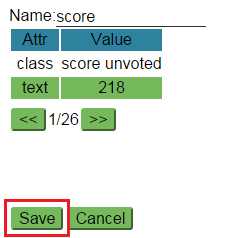
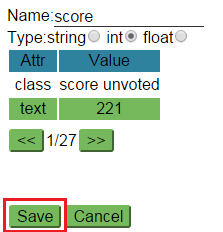
update tutorial for rule.type

diff --git a/docs/source/tutorial.rst b/docs/source/tutorial.rst
@@ -13,38 +13,44 @@ When opening Forager, you will get an empty interface.
 Before You Get Started
 ^^^^^^^^^^^^^^^^^^^^^^
 
-One thing to keep in mind is that the page that you're seeing isn't necessarily the page that `Gatherer <https://github.com/psherman/gatherer>`_ will see. :code:`Gatherer` will be receiving the html of the site as a non-logged in user, as well as having no extensions modifying the page. You should log out and disable any extensions that are running (eg. Reddit Enhancement Suite) if you want to be certain that you're seeing what :code:`Gatherer` will.
+One thing to keep in mind is that the page that you're seeing isn't necessarily the page that `Gatherer <https://github.com/psherman/gatherer>`_ will see. :code:`Gatherer` will be receiving the html of the site as a non-logged in user, as well as having no extensions modifying the page. You should log out and disable any extensions that are running (eg. Reddit Enhancement Suite) if you want to see what :code:`Gatherer` will.
 
 Create Page
 ^^^^^^^^^^^^
 The first step is to create a new page.
 
 1. Click the :code:`Add` button
++++++++++++++++++++++++++++++++
 
 .. image:: img/add-page.png
 
-2. In the prompt enter a legal page name and click ok. A legal page name does not include these characters:
+2. Choose the Page name
++++++++++++++++++++++++
+
+In the prompt enter a legal page name and click ok. A legal page name does not include these characters:
 
     < > : " \ / | ? *
 
-The name of the page for this tutorial will be "submissions"
+The name of the page for this tutorial will be "submissions". Once the name has been entered, click the :code:`OK` button.
 
 .. image:: img/page-name.png
 
-3. You now have a new page, with a base selector on the body element.
+You now have a new page, with a base selector on the body element.
 
 .. image:: img/new-page.png
 
 Selectors
 ^^^^^^^^^^^^
 
-There are two types of selectors:
+Pages are made up of a tree of :code:`selectors`. There are two types of selectors:
 
-1. Single selectors 
+1. Single selectors
++++++++++++++++++++
 
 These target one specific child element of a parent element which matches the selector. An index integer is stored for single selectors to indicate which child to select when multiple elements match the selector.
 
 2. All selectors
+++++++++++++++++
 
 These target all child elements of the parent element that match the selector. A name string is stored for all selectors to indicate the name of the array to store the children's data in.
 
@@ -57,6 +63,7 @@ Note: Sometimes a selector does not have any relevant data associated with it, b
 Because we are getting a list of submissions, the first selector we want to create is an :code:`All` selector that targets all of the submission elements.
 
 1. Add child
+++++++++++++
 
 Make sure that the desired parent element is the current element. By default the last created selector is the current parent selector. Clicking on a node in the tree will make that node's selector the current selector. When you have the desired parent set, click the :code:`Add Child` button
 
@@ -66,9 +73,10 @@ All elements in the page that can be selected will have an outline. Images that 
 
 .. image:: img/highlight-children.png
 
-2. Click on any outlined elements in the page
+2. Select Element in the Page
++++++++++++++++++++++++++++++
 
-Clicking on an element will add a list of element selectors, from the clicked element to all parent elements before the current selector. 
+Click on any outlined elements in the page. Clicking on an element will add a list of element selectors, from the clicked element to all parent elements before the current selector. 
 
 .. image:: img/element-choices.png
 
@@ -87,7 +95,10 @@ Example:
 If the current selector is :code:`body`, clicking on the :code:`a` element will return the :code:`a`, :code:`p`, and :code:`div#main` selectors.
 
 
-3. Click on the elements in the list to see which elements in the page that each one would select.
+3. Choose Element
++++++++++++++++++
+
+Click on the elements in the list to see which elements in the page that each one would select.
 
 .. image:: img/highlight-element.png
 
@@ -96,6 +107,7 @@ The chosen selector does not select all submissions that we want because it is t
 When you have the selector that matches the desired element(s), click the :code:`Confirm` button.
 
 4. Confirm the selector
++++++++++++++++++++++++
 
 By default, all parts of the selector are activated. Click on the various selector parts in the list to toggle whether or not they are included (green is included, red is not) in the final selector. The page will update the highlighted elements to reflect the current final selector.
 
@@ -104,6 +116,7 @@ By default, all parts of the selector are activated. Click on the various select
 Once you have the desired selector, click the :code:`Confirm` button.
 
 5. Set the name for the selection
++++++++++++++++++++++++++++++++++
 
 On the next page, we will choose which type of selector we are creating. There are radio options for selecting either "single" or "all". The default selector is "all".
 
@@ -118,6 +131,7 @@ For an :code:`all` selector, you need to specify a name. Ideally the name should
 Because we are targeting all of the submissions in the page, we will use the "all" radio option, and set a name for all of the data for the each element and its children to be stored under. Once the name has been entered, click the :code:`Save` button.
 
 6. The UI will return to the Page tab
++++++++++++++++++++++++++++++++++++++
 
 The page tree will be updated now to include the newly selected node. The updated node is bolded because it is the current selector.  It also has brackets around the selector to indicate that it will capture multiple elements and is in red because it is empty (ie. it has neither any child elements nor any attributes).
 
@@ -128,18 +142,21 @@ Hovering over the node in the tree will should you which elements that selector 
 .. image:: img/targeted-elements.png
 
 7. Capture children elements
+++++++++++++++++++++++++++++
 
 Now that we have the selector to get each submission, we want to get child elements that have the data we would like to collect. Click on the :code:`[div.t....link]` (this is really the div.thing.link node, but long selector names are shortened) node in the tree to make sure that it is the current selector, then click on the :code:`add child` button once again. Now only child elements of the current selector will be outlined in the page.
 
 There are various datum that can be captured from here, such as the submitted title, the submitted url, how many points it has, and a link to the submission's comments.
 
 8. Save index of elements
++++++++++++++++++++++++++
 
 For selectors where only one element should be targeted, an index is used in case the selector returns multiple elements. By default, the 0-index element is selected and generally that will be the correct index. However for some sources, such as working with tables, you'll want to target a non-zero index. Changing the index will update which matched element will be selected.
 
 .. image:: img/non-zero-index.png
 
 9. Completed selector tree
+++++++++++++++++++++++++++
 
 You can now iterate over the tree and create all of the selectors for desired information. Remember that when saving a selector, it is set as the current selector, so you will have to click back on the previous parent node when you want to add multiple children to it.
 
@@ -153,16 +170,33 @@ Create Rules
 ^^^^^^^^^^^^
 
 1. Create a Rule
+++++++++++++++++
 
 Here we'll get the current score of the submission. Click on the node in the tree for the score (for me it is :code:`div.title[0]`) to make it the current selector, then click the :code:`Add Rule` button. 
 
 .. image:: img/add-rule.png
 
-2. Choose the attribute
+2. Choose the name
+++++++++++++++++++
 
-Give the rule a name and then click on the desired attribute in the list of attributes to select which attribute (or the text content) to collect. The left column is the html attribute (or text) that you will capture, and the right column is the value of that attribute for the current element in the page. You can click the :code:`<<` and :code:`>>` buttons at the bottom of the form to cycle through all of the elements that are captured by the current selector.
+Give the rule a name. The name should be a simple description of what the value this rule is capturing is. Here we are getting the score of a submission, so the rule should be named :code:`score`.
 
-Here we want to get the text of the attribute and save it as the score. Once the name is set and the attribute is seleted, click on the :code:`Save` button.
+3. Choose the type
+++++++++++++++++++
+
+A rule can specify that the captured value should be either a string, an int, or a float. Int and float types should only be used when you know that the captured value will contain an int or a float. If the type is int or float, and no int or float is found when using :code:`Gatherer` to collect that data, -1 will be returned. Here we are getting the score of a submission, which we expect to be an int, so choose the type :code:`int`.
+
+4. Choose the attribute
++++++++++++++++++++++++
+
+Click on the desired attribute in the list of attributes to select which attribute (or the text content) to collect. The left column is the html attribute (or text) that you will capture, and the right column is the value of that attribute for the current element in the page. You can click the :code:`<<` and :code:`>>` buttons at the bottom of the form to cycle through all of the elements that are captured by the current selector.
+
+We want to get the text of the div.
+
+5. Save the Rule
+++++++++++++++++
+
+Once the name is set, the type is chosen, and the attribute is seletced, click on the :code:`Save` button.
 
 .. image:: img/choose-rule.png
 
@@ -170,14 +204,14 @@ You can create multiple Rules for a selector. This is commonly used for selector
 
 .. image:: img/multiple-rules.png
 
+Upload
+^^^^^^
+
 Once you have created rules for all of the selectors, it is time to upload the page.
 
 .. image:: img/completed-page.png
 
-Upload
-^^^^^^
-
-In order to upload, you need to have a copy of `Granary <https://github.com/psherman/granary>`_ running. Make sure to call the following code in the desired directory to run the granary server.
+In order to upload, you need to have `Granary <https://github.com/psherman/granary>`_ running. Make sure to call the following code in the desired directory to run the granary server.
 
 .. code-block:: python
 
